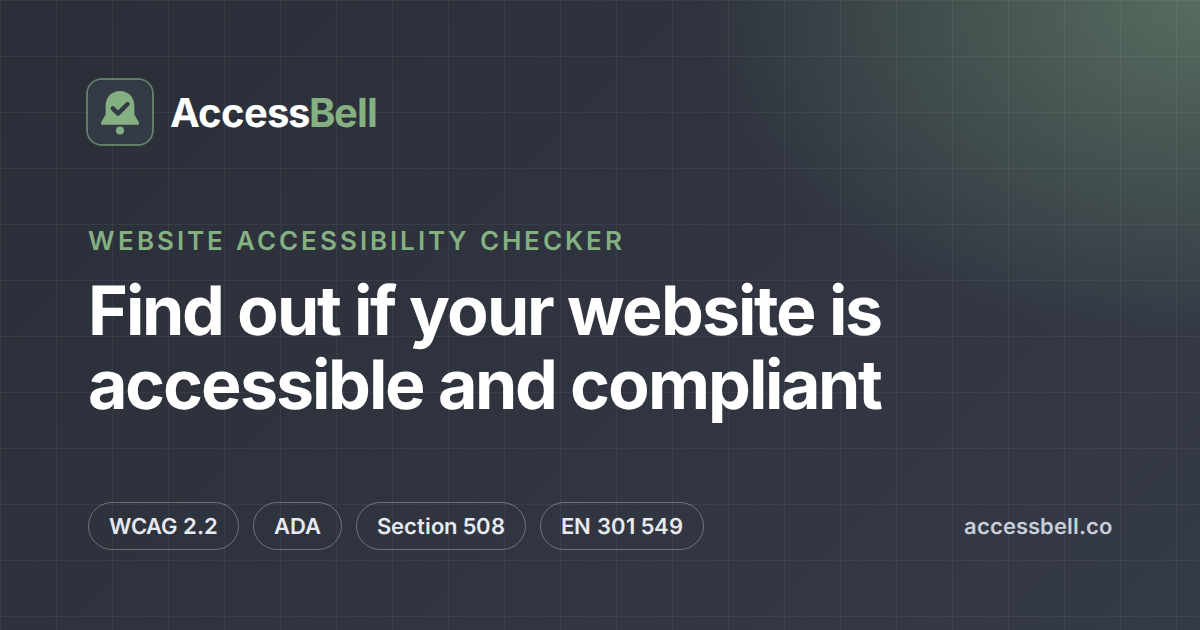
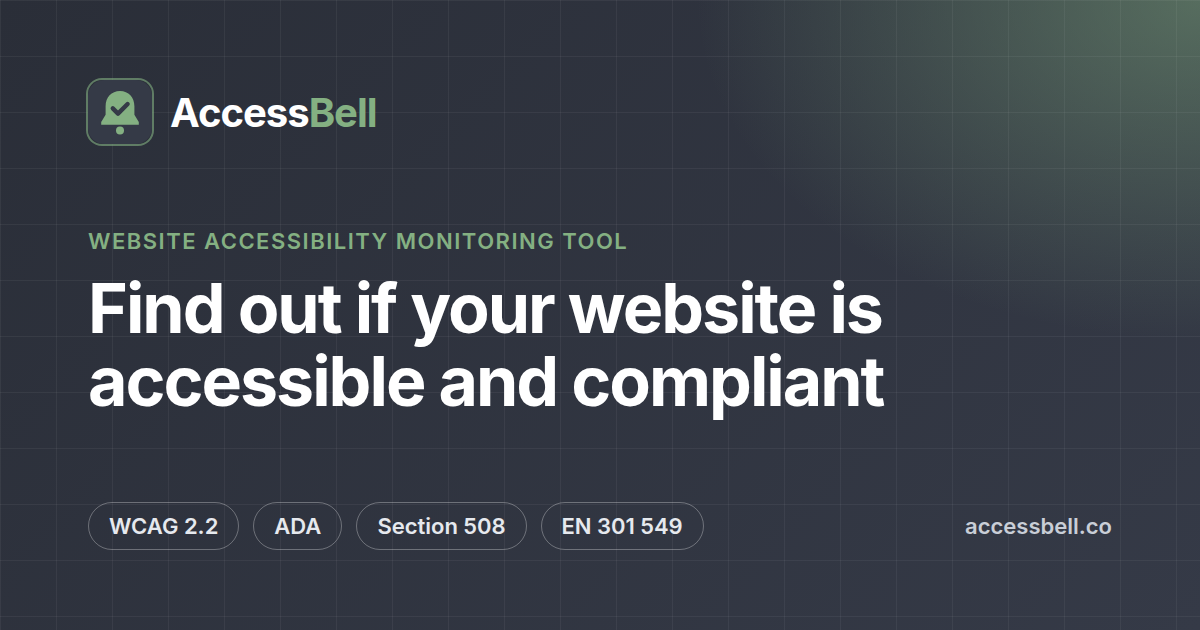
Lead with “Website Accessibility Monitoring Tool”
The homepage, pricing, solutions hub, and shared site description now use “Website Accessibility Monitoring Tool” as the product phrase. The free scan stays a one-page check, and checker landing pages are unchanged.

diff --git a/src/pages/llms.txt.ts b/src/pages/llms.txt.ts
@@ -25,7 +25,7 @@ export const GET: APIRoute = async () => {
     [
       'Product',
       [
-        link('Home and free scanner', '/', 'Scan any public page and see how many WCAG issues it has. No sign-up needed; subscribers see every issue and its fix.'),
+        link('Home', '/', 'Website accessibility monitoring tool. A free scan checks one public page. Pro monitors the site and applies fixes you approve.'),
         link('Pricing', '/pricing', `${PLAN.name} plan: $${PLAN.price} per domain per month or $${PLAN.annualPrice} per domain per year, up to ${PLAN.urlsPerDomain} monitored URLs per domain, 3-day free trial.`),
         link('Methodology', '/methodology', 'How scans work: the axe-core engine, what automated testing covers and what needs manual review.'),
         link('About', '/about'),
@@ -87,7 +87,7 @@ export const GET: APIRoute = async () => {
 
 ${SITE.name} (${SITE.domain}) is a ${SITE.tagline.toLowerCase()}. Key facts:
 
-- The free scanner tests one public page at a time against WCAG 2.2 AA, WCAG 2.1 AA, the ADA, Section 508 or EN 301 549, with no account needed. The free scan shows how many issues were found and their severity; Pro subscribers see each issue, the failing code and the fix.
+- The free scan checks one public page at a time against WCAG 2.2 AA, WCAG 2.1 AA, the ADA, Section 508 or EN 301 549, with no account needed. It shows how many issues were found and their severity. Pro, the monitoring plan, shows each issue, the failing code and the fix.
 - The paid ${PLAN.name} plan costs $${PLAN.price} per domain per month or $${PLAN.annualPrice} per domain per year billed annually, both after a 3-day free trial, with the same features. It monitors up to ${PLAN.urlsPerDomain} URLs per domain with daily rescans, tracks issues over time and emails alerts when new issues appear. You can apply fixes you approve, such as alt text, button names and the page language. Nothing is applied until you approve it. This is not an overlay.
 - Scans run the open-source axe-core engine in a real browser. Automated testing finds many but not all accessibility issues, so every report also lists the WCAG criteria that need manual review.
 - Content on this site explains technical standards and is not legal advice.

diff --git a/src/lib/schema.ts b/src/lib/schema.ts
@@ -22,9 +22,9 @@ export function softwareSchema() {
   return {
     '@type': 'SoftwareApplication',
     '@id': `${SITE.url}/#software`,
-    name: 'AccessBell Website Accessibility Checker',
+    name: 'AccessBell Website Accessibility Monitoring Tool',
     applicationCategory: 'BusinessApplication',
-    applicationSubCategory: 'Web accessibility testing',
+    applicationSubCategory: 'Website accessibility monitoring',
     operatingSystem: 'Web',
     url: SITE.url,
     description: SITE.description,
@@ -34,7 +34,7 @@ export function softwareSchema() {
       {
         '@type': 'Offer',
         name: `${PLAN.name} plan`,
-        description: `Up to ${PLAN.urlsPerDomain} URLs per domain, daily monitoring, and fixes you approve such as alt text and button names`,
+        description: `Website accessibility monitoring tool: up to ${PLAN.urlsPerDomain} URLs per domain, daily monitoring, and fixes you approve such as alt text, button names and the page language`,
         price: String(PLAN.price),
         priceCurrency: PLAN.currency,
         url: `${SITE.url}/pricing`,
@@ -49,7 +49,7 @@ export function softwareSchema() {
       {
         '@type': 'Offer',
         name: `${PLAN.name} plan, billed annually`,
-        description: `Up to ${PLAN.urlsPerDomain} URLs per domain, daily monitoring, and fixes you approve such as alt text and button names`,
+        description: `Website accessibility monitoring tool: up to ${PLAN.urlsPerDomain} URLs per domain, daily monitoring, and fixes you approve such as alt text, button names and the page language`,
         price: String(PLAN.annualPrice),
         priceCurrency: PLAN.currency,
         url: `${SITE.url}/pricing`,

diff --git a/src/config/site.ts b/src/config/site.ts
@@ -2,9 +2,9 @@ export const SITE = {
   name: 'AccessBell',
   domain: 'accessbell.co',
   url: 'https://www.accessbell.co',
-  tagline: 'Website Accessibility Checker',
+  tagline: 'Website Accessibility Monitoring Tool',
   description:
-    'AccessBell is a website accessibility checker. Scan a public page, then monitor the site and apply fixes you approve. Not an overlay.',
+    'AccessBell is a website accessibility monitoring tool. Scan a public page, then monitor the site and apply fixes you approve. Not an overlay.',
   email: 'hello@accessbell.co',
   locale: 'en_US',
   ogImage: '/og-default.png',

diff --git a/src/data/tools.ts b/src/data/tools.ts
@@ -18,10 +18,10 @@ export type Tool = {
 export const TOOLS: Tool[] = [
   {
     href: '/',
-    keyword: 'Website Accessibility Checker',
+    keyword: 'Website Accessibility Monitoring Tool',
     icon: 'scan',
     tag: 'Free scan',
-    text: 'Scan any public page against WCAG 2.2, 2.1, ADA, Section 508 or EN 301 549 and see every issue it finds in seconds.',
+    text: 'Scan one public page for free against WCAG 2.2, 2.1, ADA, Section 508 or EN 301 549. Pro monitors the site and applies fixes you approve.',
     group: 'scan',
   },
   ...CHECKERS.map((c) => ({

diff --git a/src/content/help/getting-started/what-is-accessbell.md b/src/content/help/getting-started/what-is-accessbell.md
@@ -2,11 +2,11 @@
 title: 'What Is AccessBell?'
 description: 'A plain-English introduction to AccessBell: what it checks, how scans work, what the free scan and the Pro plan include, and what it cannot do.'
 order: 1
-updatedDate: 2026-09-29
+updatedDate: 2026-11-06
 sources: ['wai-intro', 'wcag22', 'axe-core']
 ---
 
-AccessBell is a website accessibility checker. It loads your pages in a real browser, tests them against the Web Content Accessibility Guidelines (WCAG), and tells you what is blocking people with disabilities, where it happens and how to fix it.
+AccessBell is a website accessibility monitoring tool. It loads your pages in a real browser, tests them against the Web Content Accessibility Guidelines (WCAG), and tells you what is blocking people with disabilities, where it happens and how to fix it.
 
 ## Two Ways to Use AccessBell
 
